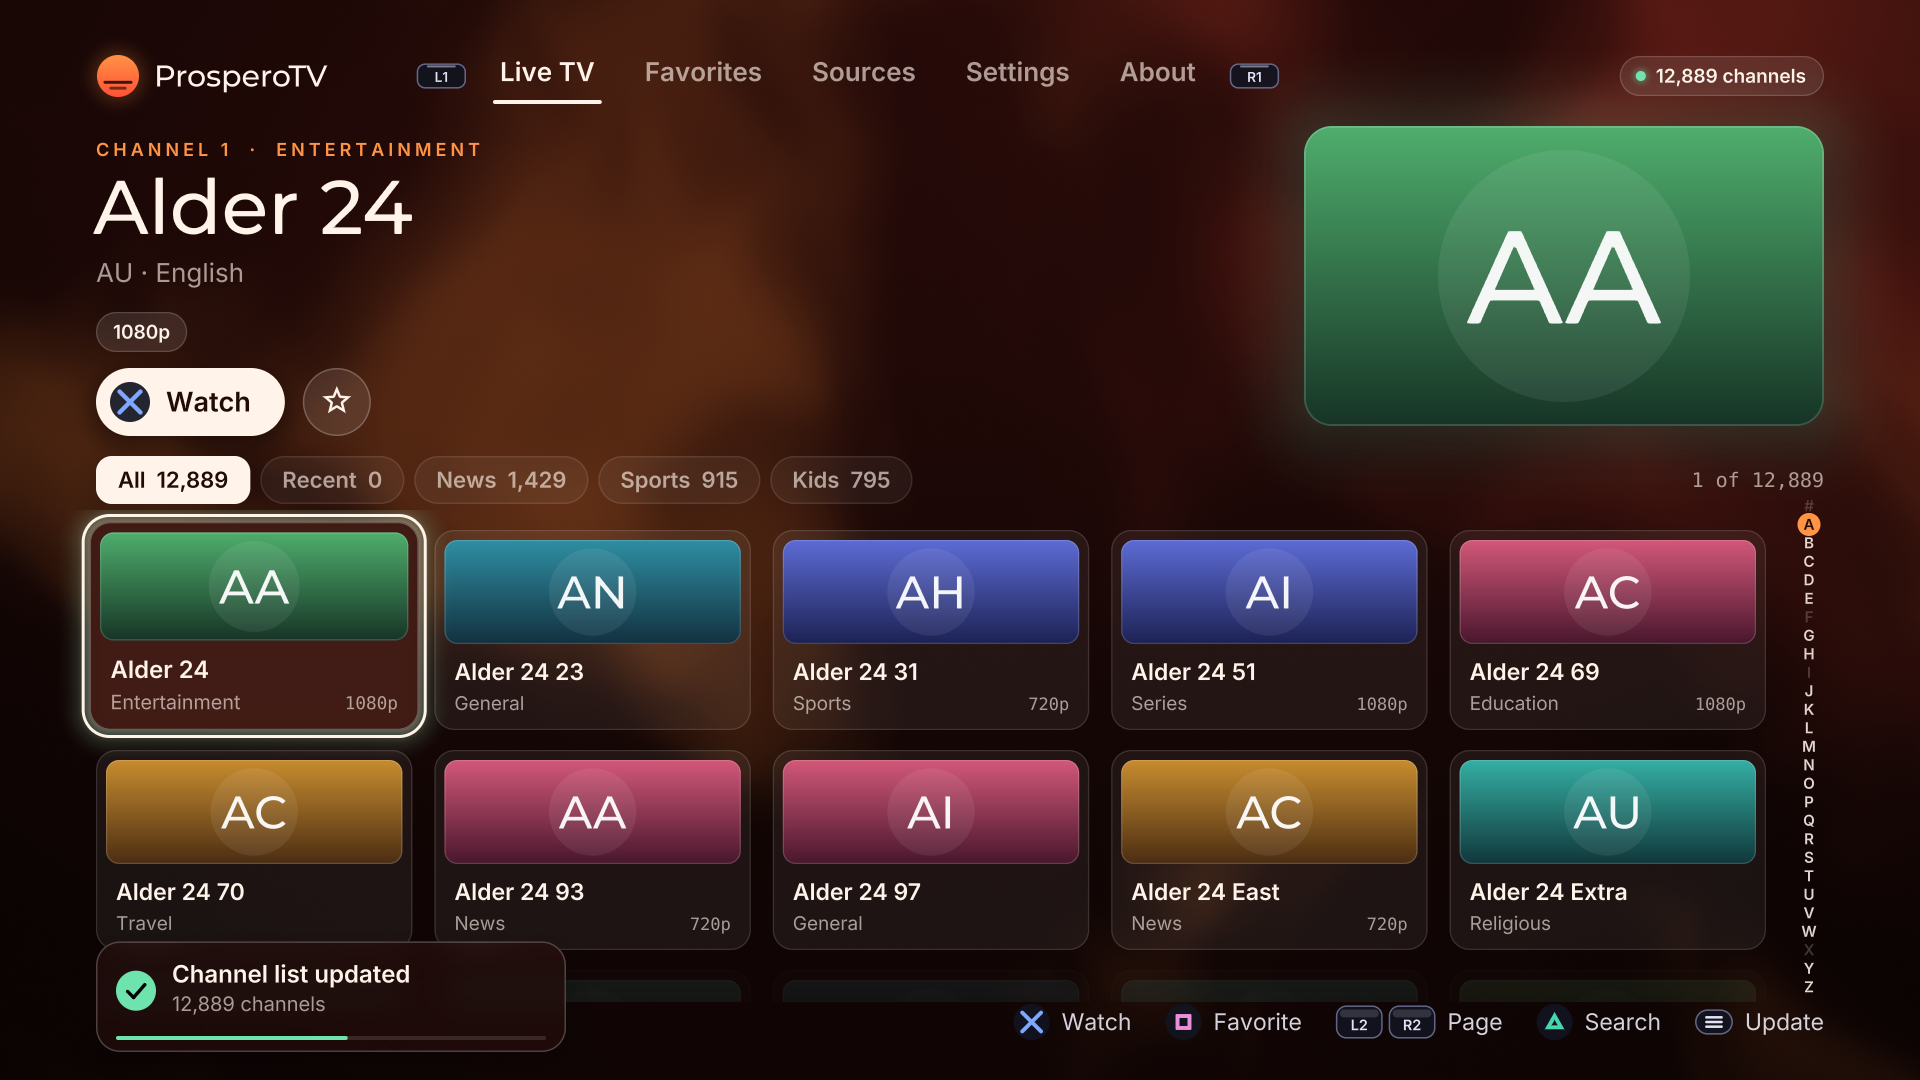
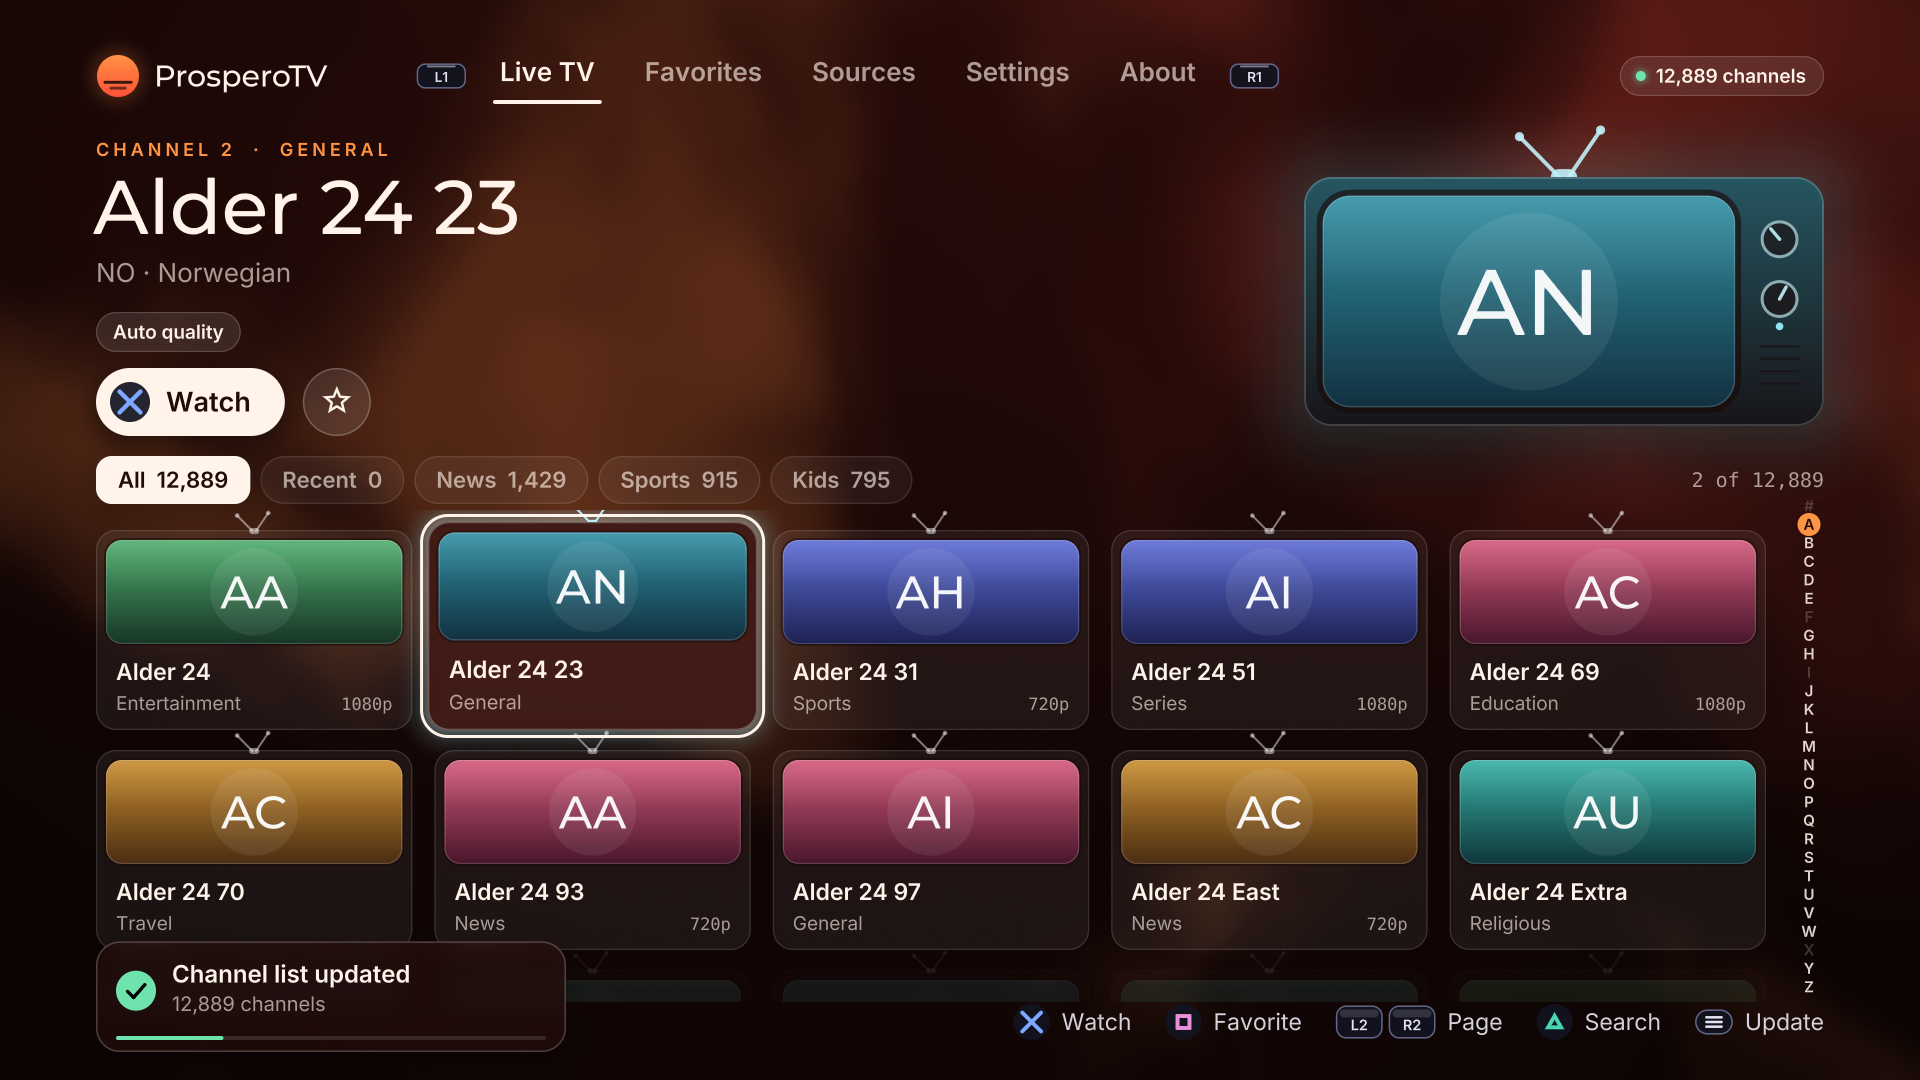
Version 01.000.030: the workflow builds the app and publishes it on the tag (#8)

diff --git a/README.md b/README.md
@@ -74,7 +74,7 @@
 | Shell title | `ProsperoTV` |
 | Title ID | `PPSA99003` |
 | Shell category | Media |
-| Current version | `01.000.020` |
+| Current version | `01.000.030` |
 | Release-version source | [`sce_sys/param.json`](sce_sys/param.json) |
 | Built-in catalog | `https://iptv-org.github.io/iptv/index.m3u` |
 | Writable data | `/data/prosperotv`; the title's own `/download0` when filesystem access is not available |
@@ -315,9 +315,11 @@ decoder telemetry, and teardown checks.
 GitHub Actions runs linting, the host tests, and deterministic runtime
 reproduction on every push, and checks that a version tag matches
 `contentVersion`. A pull request's build is uploaded under its number and
-commit: see [Pull-request builds](docs/PULL_REQUEST_BUILDS.md). It does not publish: a release is the app built from
-`opengl-ui/` at the tagged commit, run on consoles, and attached with its
-`SHA256SUMS`.
+commit: see [Pull-request builds](docs/PULL_REQUEST_BUILDS.md). The same run
+builds the released app from `opengl-ui/` on a clean machine, fetching every
+dependency at its pinned version. A version tag also publishes: the ZIP that
+run built is attached to a GitHub Release with its `SHA256SUMS` and the notes
+in `docs/releases/<version>.md`. No release is built anywhere else.
 
 ## Source layout
 
@@ -349,11 +351,12 @@ PS5 `NN.NNN.NNN` format without a `v` prefix.
 
 ```bash
 # After updating param.json and passing the release gates:
-git tag 01.000.020
-git push origin main 01.000.020
+git tag 01.000.030
+git push origin main 01.000.030
 ```
 
-The workflow rejects a mismatched tag. See
+The workflow rejects a mismatched tag, builds the app, and publishes the
+release with the notes in `docs/releases/01.000.030.md`. See
 [Configuration](docs/CONFIGURATION.md) for the coordinated metadata fields.
 
 ## Stream compatibility and limitations

diff --git a/docs/releases/01.000.030.md b/docs/releases/01.000.030.md
@@ -1,0 +1,27 @@
+## More channels play
+
+- Interlaced channels (broadcast 1080i) now play, with their two fields blended so motion is smooth.
+- 4K HEVC channels signalled above level 5.1, as satellite 4K channels are, now open.
+- Chinese, Japanese and Korean channel names and categories are shown as written.
+- A source may hold up to 250,000 channels, and its list is read as it downloads.
+
+## New
+
+- A phone remote: Settings, Pair a phone. Scan the code, enter the number shown, and the phone's browser moves the menu, searches and sets the volume.
+- A diagnostic log: Settings, Troubleshooting. Off by default; while it is on the app records what it does in logs/debug-trace.txt, without account details, to send with a problem report.
+- A volume setting.
+
+## Fixes
+
+- A channel that does not play says why, in the menu and in the log.
+- The release ZIP stores every file open to all, so a copy that keeps permissions still starts.
+
+Note: this is the first update ProsperoTV installs by itself. Choose Update now and the app downloads it, closes and comes back as 01.000.030; your sources, favorites and settings stay as they are.
+
+## Installing by hand
+
+- `PPSA99003.zip`: extract it and upload the complete `PPSA99003` folder to `/data/homebrew`, replacing the old one.
+- `SHA256SUMS`: the checksum of the download.
+- Coming from 01.000.015 or older: close ProsperoTV, delete `PPSA99003.ffpfsc` from `/data/homebrew` if you used the image, then upload the folder and restart ShadowMountPlus or the console.
+
+This release was built by this repository's GitHub Actions from the tagged commit.

diff --git a/opengl-ui/README.md b/opengl-ui/README.md
@@ -11,11 +11,11 @@ the player are the same sources as before, used from the folder above.
 It asks for filesystem access the way ProsperoEden does, keeps its files in
 `/data/prosperotv`, and makes every request with libcurl.
 
-**This is the released app.** A release is this folder built at the tagged
-commit, run on consoles and attached to the GitHub Release. The repository's
-root `Makefile` still builds the interface of 01.000.015 and earlier, which
-shares those sources and keeps their tests; nothing in this folder is built by
-it or by the workflow.
+**This is the released app.** The workflow's `app` job tests and builds this
+folder on every push and pull request, and on a version tag its ZIP becomes
+the GitHub Release. The repository's root `Makefile` still builds the
+interface of 01.000.015 and earlier, which shares those sources and keeps
+their tests; it builds nothing of this folder.
 
 The kit is a dependency fetched when something is built; none of its code is
 kept in this repository. It compiles against two source trees:

diff --git a/docs/PULL_REQUEST_BUILDS.md b/docs/PULL_REQUEST_BUILDS.md
@@ -5,9 +5,10 @@ lint, host tests, the runtime reproduction, and the packaging steps. The result 
 14 days under a name that says which pull request and which commit it came from.
 
 The workflow builds the app at the root of the repository (`src/`, through `make ffpfsc`).
-The released interface is built from `opengl-ui/` by the maintainer and is **not** what
-this artifact contains: use the artifact to check that a pull request builds and packages,
-and build `opengl-ui/` yourself to try the released interface on a console.
+The released interface is built from `opengl-ui/` by the same run's `app` job and is
+**not** what this artifact contains: that one is uploaded as
+`ProsperoTV-app-PR<number>-<commit>` and holds `PPSA99003.zip`, the folder to try on a
+console.
 
 ## What a pull request produces
 
